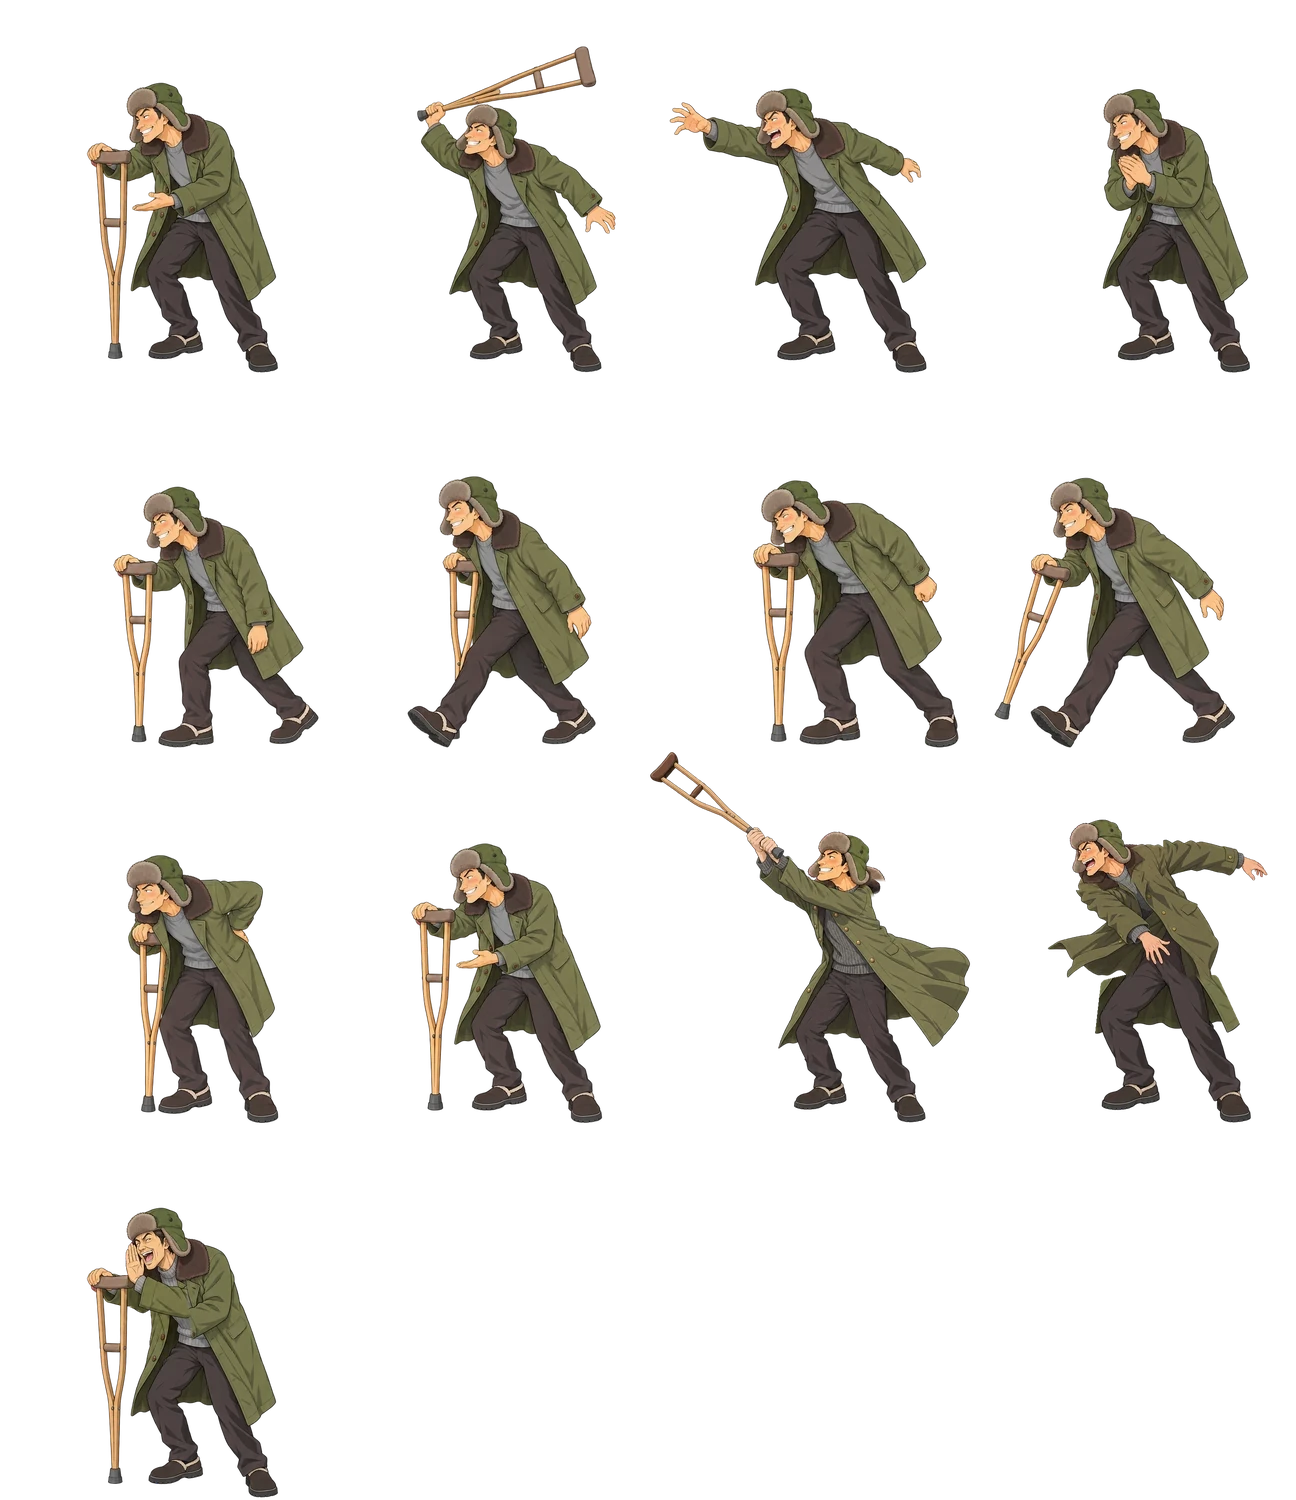
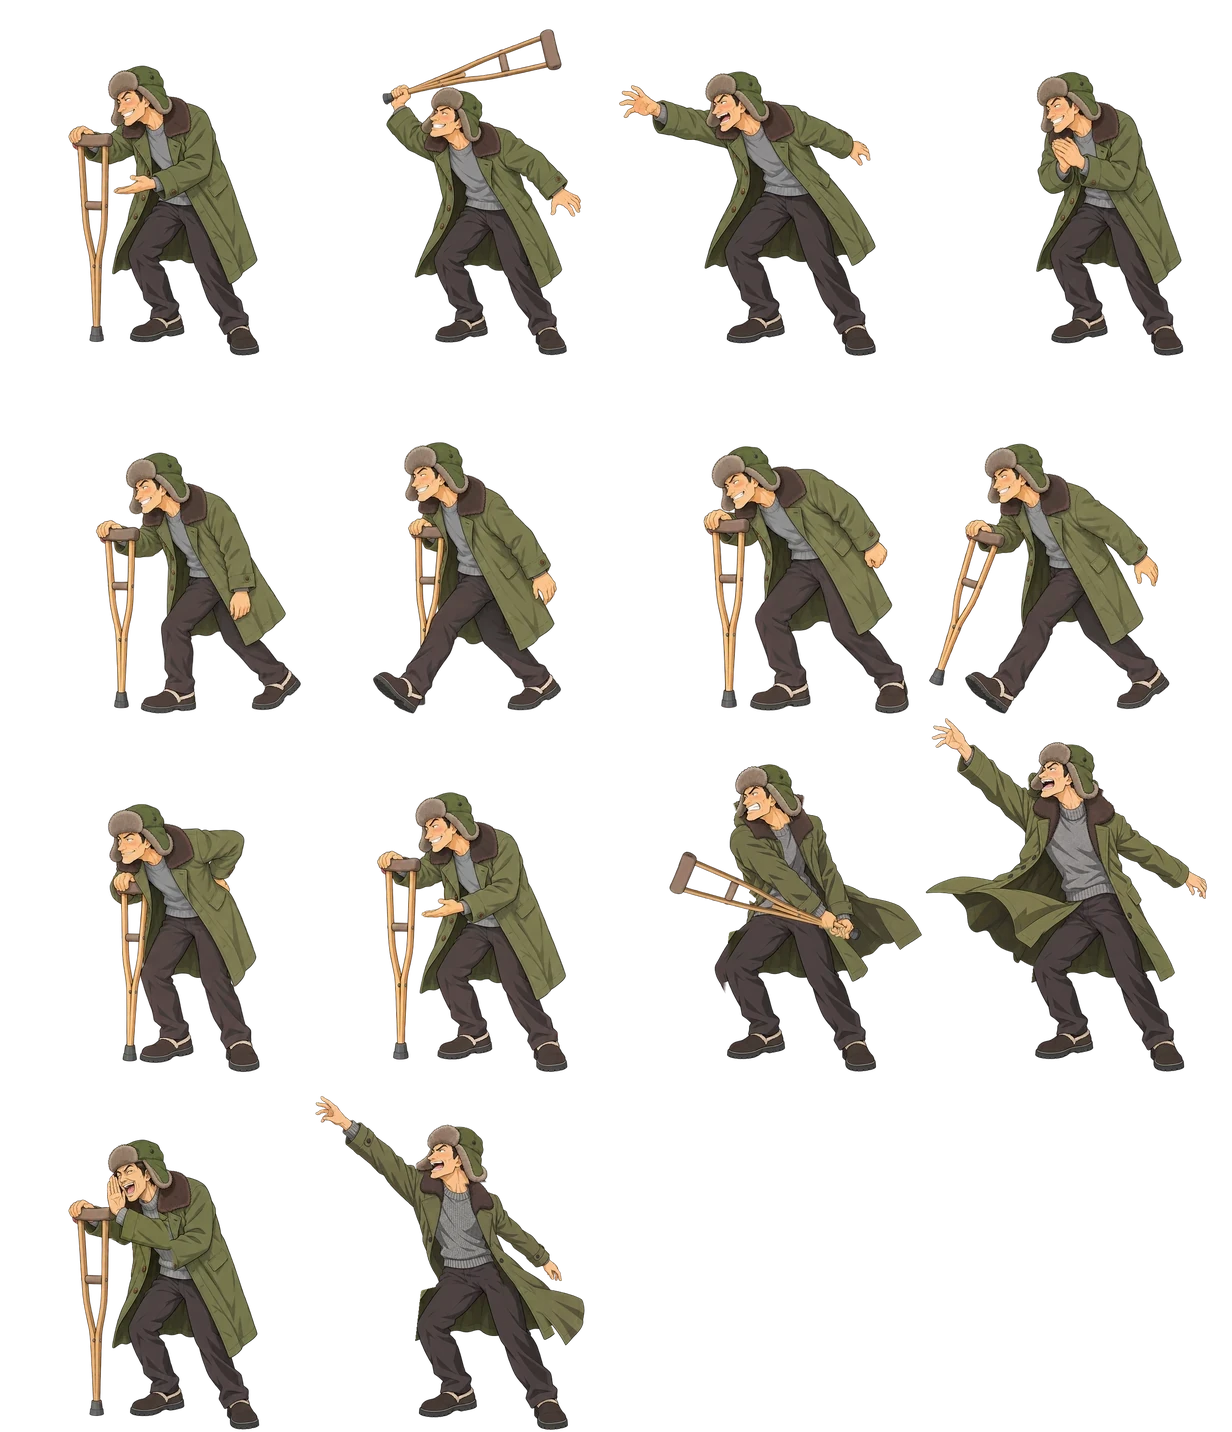
feat: 精美1 哥们第 2 批——B22 气功波出手帧双掌指向左上 20°（肩→掌 158.4°，所需 160°）、B29 卖拐出手帧按 143° 重画（swing→release 140°、肩→手 141.1°），atk.dir 写进角色数据；combo_scan buddy 0 / 0 / 0

diff --git a/chashouji/web/trio_buddy.js b/chashouji/web/trio_buddy.js
@@ -194,20 +194,19 @@ const TRIO_BUDDY = {
     },
     B22: {      // 悟空：从右下角低身冲刺、一滑落成半跪，双手在腰侧蓄气 → 往前推出水版气功波
       face: -1,
-      sheet: { src: 'assets/trio/B22_goku.webp', cell: [271, 351], cols: 4, names: ['idle', 'wind', 'throw', 'follow', 'dash', 'skid', 'guard', 'idle0', 'swing', 'thru', 'idle2'] },
+      sheet: { src: 'assets/trio/B22_goku.webp', cell: [267, 351], cols: 4, names: ['idle', 'wind', 'throw', 'follow', 'dash', 'skid', 'guard', 'idle0', 'swing', 'release', 'thru', 'idle2'] },
       /* 锚点 = 前脚和跪地膝之间的地面；在场帧最低点屏幕 y 1332.9。剪影面积 2.90 万 */
-      anchor: [138.1, 314], at: [835, 1310, 1], pivot: [138, 313.8],
+      anchor: [143.7, 314], at: [835, 1310, 1], pivot: [143.6, 313.8],
       leanK: 0,   // 半跪两点着地：整体前后倾会把前脚翘起来
       depth: 1.3, recipe: 'water',
       enter: { kind: 'dash', seq: [['dash', 0.45], ['skid', 0.15, 'land'], ['guard', 9]], sq: 0.1 },
       exit: { frame: 'dash' },
       idle: { frame: 'idle', breathe: [0.02, 0.9, 0], alt: { frame: 'idle2', every: [0.5, 1.2], hold: [0.6, 1.0] } },
-      flex: { idle: [[212, 202.8, 245, 246.8, 'l', 5, 1.2]], follow: [[200, 172.8, 260, 264.8, 'l', 5, 1.2]] },   // 腰带的两条尾巴：结那头钉住
+      flex: { idle: [[217.6, 202.8, 250.6, 246.8, 'l', 5, 1.2]], follow: [[205.6, 172.8, 265.6, 264.8, 'l', 5, 1.2]] },   // 腰带的两条尾巴：结那头钉住
       /* 出手帧（throw）的时长 = beam.fire：波轰满 0.6 秒才收 */
-      /* 精美1（P6 / P7，美术补帧，蒙版局部重绘）：wind 腰侧蓄气 → swing 双掌捧气推到胸前、身子前倾头发后吹（气球画在两掌间）→ throw 推出光束 → thru 手肘微弯后坐、头发往前甩 → follow；idle2 = 拇指擦鼻子。图集往上扩 22.8。idle0 = 旧的重画 idle（不用），idle2 等引擎 P7 随机切 */
-      /* swing 暂不进 seq：这张屏幕最右出画（combo_scan），重画中 */
-      atk: { kind: 'beam', seq: [['wind', 0.38], ['throw', 0.6, 'fire'], ['thru', 0.12], ['follow', 0.25]],
-             hold: { wind: [215, 182.8], throw: [38, 107.8], swing: [58, 132] }, gap: [0.45, 0.8], stretch: 0.03,
+      /* 精美1（P6 / P7，美术补帧，蒙版局部重绘）：第二轮（物理一致性，审查第 4 节：光是直线，双掌要指向 160°）：wind 腰侧蓄气 → swing 双掌合到胸前偏下（气球画在两掌间）→ release 双臂往左上 20° 推直、光束从两掌中间直出（肩→掌 158.4°）→ thru 手肘微弯后坐 → follow；idle2 = 拇指擦鼻子。图集往上扩 22.8。idle0 = 旧的重画 idle（不用），idle2 等引擎 P7 随机切 */
+      atk: { kind: 'beam', seq: [['wind', 0.32], ['swing', 0.08], ['release', 0.6, 'fire'], ['thru', 0.12], ['follow', 0.25]], dir: { release: 21.6 },
+             hold: { wind: [220.6, 182.8], throw: [43.6, 107.8], swing: [94, 169], release: [26, 66] }, gap: [0.45, 0.8], stretch: 0.03,
              beam: { fire: 0.6, drip: 0.1, ball: 26, glow: [120, 210, 255], edge: [30, 90, 200],
                      layers: [[34, [30, 90, 200], 0.35], [22, [90, 180, 255], 0.8], [11, [210, 240, 255], 0.95], [4, [255, 255, 255], 1]] } },
     },
@@ -548,20 +547,20 @@ const TRIO_BUDDY = {
 
     B29: {      // 东北卖拐大叔：军大衣雷锋帽，拄着拐一瘸一拐挪进来，举着拐吆喝推销；抡起拐杖甩过去，3D 拐杖翻着飞
       face: -1,
-      sheet: { src: 'assets/trio/B29_crutch.webp', cell: [324, 375], cols: 4, names: ['idle', 'wind', 'throw', 'follow', 'walk1', 'walk2', 'walk3', 'walk4', 'stop', 'idle0', 'swing', 'thru', 'idle2'] },
+      sheet: { src: 'assets/trio/B29_crutch.webp', cell: [308, 358], cols: 4, names: ['idle', 'wind', 'throw', 'follow', 'walk1', 'walk2', 'walk3', 'walk4', 'stop', 'idle0', 'swing', 'thru', 'idle2', 'release'] },
       /* 地板前排（站着弓腰），锚点 = 两脚之间的地面。剪影面积 2.85 万（樱木 +8%，含帧里的拐）。at.y 1326：各帧剪影最低一行屏幕 y 最大 1333.2（1328 时 1335.2，超 1.2）。
          拐杖在 idle / wind / 走路帧里画着（拄着、推销、抡起来），throw 帧手空了、飞出去的是 3D 拐杖 */
-      anchor: [211.8, 365], at: [830, 1326, 1], pivot: [211.5, 365.2], leanK: 0,
+      anchor: [193.3, 347.9], at: [830, 1326, 1], pivot: [193, 348.1], leanK: 0,
       depth: 1.3, recipe: 'thud',
       /* 瘸：步长恒定（引擎一帧一步），瘸靠 walk3 伤腿着地时身子下沉、压着拐（审查第三轮第 4 条）；bob 跟帧。
          拄拐的过渡帧也是一前一后两脚着地（后脚撑着），钉脚按手写的换帧链对齐（walkfix.py，平移 +18 / -12 / -9 / -48）；dist = 6 步 × 59.25 */
       enter: { kind: 'walk', fps: 5, bob: 12, stride: 118, dist: 354, seq: [[['walk1', 'walk2', 'walk3', 'walk4'], 9]] },
       exit: { frame: ['walk1', 'walk2', 'walk3', 'walk4'], fps: 6, flip: true, T: 0.8 },
       idle: { frame: 'idle', breathe: [0.02, 0.8, 0], alt: { frame: 'idle2', every: [0.5, 1.2], hold: [0.6, 1.0] } },
-      flex: { idle: [[119.5, 77.2, 199.5, 112.2, 'b', 3, 0.8]] },   // 雷锋帽顶的毛：底边钉住，帽顶颤
-      /* 精美1（P6 / P7，美术补帧，蒙版局部重绘）：wind 拐在头后 → swing 双手握拐抡到头顶前上方（拐画在帧里）→ throw 离手（3D 拐从 hold.throw 飞出）→ thru 空手甩到身前低处、大衣前甩 → follow；idle2 = 手拢嘴边吆喝。swing / thru 的头按老帧重画过（同一顶军绿帽、浅棕毛边）。图集扩 (19.5, 44.2)。idle0 = 旧的重画 idle（不用），idle2 等引擎 P7 随机切 */
+      flex: { idle: [[101, 60.1, 181, 95.1, 'b', 3, 0.8]] },   // 雷锋帽顶的毛：底边钉住，帽顶颤
+      /* 精美1（P6 / P7，美术补帧，蒙版局部重绘）：第二轮（物理一致性，审查第 4 节所需 143°）：wind 拐在头后 → swing 双手握拐收到右胯后（拐画在帧里，同一根）→ release 手臂往左上伸直、拐刚离手（这一拍离手，3D 拐从 hold.release 飞出；双拳中心 swing→release 140°、肩→手 141.1°）→ thru 空手继续往左上扬、大衣前甩 → follow；idle2 = 手拢嘴边吆喝。swing / thru 的头按老帧重画过（同一顶军绿帽、浅棕毛边）。图集扩 (19.5, 44.2)。idle0 = 旧的重画 idle（不用），idle2 等引擎 P7 随机切 */
       atk: { kind: 'throw', item: 'crutch', r: 86, atlas: { src: 'assets/trio/prop_crutch.webp', n: 36, cols: 6, cell: 190, scale: 1.07 },   // 3D 拐返工（引擎负责人 2026-10-01）：浅木双杆长拐，长边 163~183px ≈ 帧里那根
-             seq: [['wind', 0.28], ['swing', 0.07], ['throw', 0.1, 'fire'], ['thru', 0.12], ['follow', 0.33]], hold: { throw: [37.5, 119.2] },
+             seq: [['wind', 0.22], ['swing', 0.08], ['release', 0.12, 'fire'], ['follow', 0.36]], dir: { release: 40 }, hold: { throw: [19, 102.1], release: [23.6, 40.7] },   // thru（手再往上扬、身子前送）压到后排 B7 的腿（combo_scan 9.4% > 8%），暂不进 seq
              T: 0.5, arc: 0.2, spin: 6.3, stretch: 0.02, gap: [0.6, 1.0] },
     },
 

diff --git a/chashouji/v14/trio/buddy/B22_goku/p6dpaste.py b/chashouji/v14/trio/buddy/B22_goku/p6dpaste.py
@@ -1,0 +1,63 @@
+# P6 方向版：同 p6paste.py，读写 raw/p6d_*：python3 p6dpaste.py <name> <gen.png> [f] [s0 s1]
+import sys, numpy as np
+sys.path.insert(0,'/workspace/art/chashouji/v14/trio/tools'); sys.path.insert(0,'/workspace/art/chashouji/v14')
+from frames import gray, find, resize
+from crewart import cut
+from PIL import Image
+from scipy import ndimage
+R='/workspace/art/chashouji/v14/trio/buddy/B22_goku/raw/'
+name,gp=sys.argv[1:3]; f=float(sys.argv[3]) if len(sys.argv)>3 else 1.0; s0,s1=(float(sys.argv[4]),float(sys.argv[5])) if len(sys.argv)>5 else (0.5,1.0)
+rgb,al=cut(R+f'p6d_{name}_base.png','magenta',(40,150))
+base=Image.fromarray(np.dstack([rgb,al*255]).clip(0,255).astype(np.uint8),'RGBA')
+keep=np.array(Image.open(R+f'p6d_{name}_mask.png'))[...,3]>128          # 不透明 = 保留
+import os; PADR=int(os.environ.get('PADR','0'))      # 生成图的手伸出 1024 画布右边：画布往右加宽 PADR（加宽区按要重画处理）
+CW=1024+PADR
+if PADR:
+    rgb=np.pad(rgb,((0,0),(0,PADR),(0,0))); al=np.pad(al,((0,0),(0,PADR))); keep=np.pad(keep,((0,0),(0,PADR)))
+    base=Image.fromarray(np.dstack([rgb,al*255]).clip(0,255).astype(np.uint8),'RGBA')
+# 模板：蒙版外（腿）的身体包围盒，往里收 20 远离蒙版边
+lm=keep&(al>0.5); lm=ndimage.binary_erosion(keep,iterations=20)&(al>0.5)
+ys,xs=np.nonzero(lm); box=(xs.min()-4,ys.min(),xs.max()+5,ys.max()+5)
+tpl=gray(base.crop(box))
+g=Image.open(gp).convert('RGBA')
+if np.array(g)[...,3].min()>250:
+    gr,ga=cut(gp,'magenta',(40,150)); g=Image.fromarray(np.dstack([gr,ga*255]).clip(0,255).astype(np.uint8),'RGBA')
+q=0.25; tq=gray(resize(base.crop(box),q))
+best=None
+for s in np.arange(s0,s1,0.01):
+    r=find(gray(resize(g,s*q)),tq)
+    if r and (best is None or r[2]>best[0]): best=(r[2],s,r)
+sc0=best[1]; best=None
+for s in np.arange(sc0-0.012,sc0+0.013,0.003):
+    gi=resize(g,s); cy,cx=best_r=( None,None)
+    r=find(gray(gi),tpl)
+    if r and (best is None or r[2]>best[0]): best=(r[2],s,r)
+sc,s,r=best
+gx,gy=box[0]-r[1],box[1]-r[0]
+print(f'{name}: scale {s:.3f} score {sc:.3f} offset {gx:.1f},{gy:.1f}')
+G=np.array(g.transform((CW,1024),Image.AFFINE,(1/s,0,-gx/s,0,1/s,-gy/s),Image.BICUBIC)).astype(np.float32)
+if f!=1.0:   # 上半身绕胯点缩 f（腰线以下不影响：蒙版外本来就用原图）
+    ky=int(os.environ.get('KY','575'))               # 蒙版透明区最低一行 = 腰线
+    row=np.nonzero(al[ky+10]>0.5)[0]; xh=float(os.environ.get('XH',(row.min()+row.max())/2)); yh=ky+10
+    Gi=Image.fromarray(G.clip(0,255).astype(np.uint8),'RGBA')
+    Gs=np.array(Gi.transform((CW,1024),Image.AFFINE,(1/f,0,xh-xh/f,0,1/f,yh-yh/f),Image.BICUBIC)).astype(np.float32)
+    # B22：蒙版透明区一直延到腰带结下面（745），只缩腰线以上，腰线上下 BAND 渐变，腰带结 / 短裤保持生成图原大小
+    BAND=40; Y=np.arange(1024)[:,None,None]; wy=np.clip((yh+BAND/2-Y)/BAND,0,1)
+    pmx=lambda X:np.dstack([X[...,:3]*X[...,3:]/255,X[...,3:]])
+    o2=pmx(Gs)*wy+pmx(G)*(1-wy)
+    G=np.dstack([o2[...,:3]*255/np.maximum(o2[...,3:],1e-3),o2[...,3:]]).clip(0,255)
+    print('shrink',f,'pivot',xh,yh)
+B=np.array(base).astype(np.float32)
+# 蒙版透明区权重，边上 8px 渐变（只往透明区里渐变，蒙版外全是原像素）
+d=ndimage.distance_transform_edt(~keep)
+w=np.clip(d/8,0,1)
+ga,ba=G[...,3]/255,B[...,3]/255
+w=w*np.maximum(ga,1-ba)            # 渐变带里生成图是空的地方留原图
+w=np.where(d>8,1,w)                # 渐变带外完全用生成图
+pm=lambda X:np.dstack([X[...,:3]*X[...,3:]/255,X[...,3:]])
+o=pm(G)*w[...,None]+pm(B)*(1-w[...,None])
+out=np.dstack([o[...,:3]*255/np.maximum(o[...,3:],1e-3),o[...,3:]]).clip(0,255).astype(np.uint8)
+Image.fromarray(out,'RGBA').save(R+f'p6d_{name}.png')
+# 预览
+pv=Image.new('RGBA',(CW,1024),(200,200,200,255)); pv.alpha_composite(Image.fromarray(out,'RGBA'))
+pv.convert('RGB').resize((CW//2,512)).save(f'/tmp/b22d/out_{name}.png')

diff --git a/chashouji/v14/trio/buddy/B22_goku/p6dcmp.py b/chashouji/v14/trio/buddy/B22_goku/p6dcmp.py
@@ -1,0 +1,31 @@
+# P6 方向版对比图（B22 气功波）：idle / wind / swing / release / thru / follow；release 标肩 S、掌心中点 R（出口点）与 S→R 角，swing 标两掌中心 P，thru 标肩→掌角
+import json, math
+from PIL import Image, ImageDraw
+J=json.load(open('/workspace/art/chashouji/web/assets/trio/B22_goku.json')); cw,ch=J['cell']
+A=Image.open('/workspace/art/chashouji/web/assets/trio/B22_goku.webp').convert('RGBA')
+P=(94,169); S=(150,115); R=(26,66); TS=(187.5,120); TR=(70,75)      # 格内输出像素（手量，anchor [143.7, 314]）
+ang=lambda a,b: math.degrees(math.atan2(-(b[1]-a[1]),b[0]-a[0]))
+names=['idle','wind','swing','release','thru','follow']
+W=Image.new('RGB',(cw*len(names),ch+44),(225,225,225)); d=ImageDraw.Draw(W)
+for k,n in enumerate(names):
+    i=J['frames'].index(n); c=A.crop((i%4*cw,i//4*ch,i%4*cw+cw,i//4*ch+ch))
+    bg=Image.new('RGBA',c.size,(225,225,225,255)); bg.alpha_composite(c); W.paste(bg.convert('RGB'),(k*cw,44))
+    d.text((k*cw+4,4),n,fill=(0,0,0))
+    o=lambda p:(k*cw+p[0],44+p[1])
+    def dot(p,col,t):
+        x,y=o(p); d.ellipse([x-4,y-4,x+4,y+4],outline=col,width=2); d.text((x+6,y-12),t,fill=col)
+    def ray(a,b,col,ext=60):        # 肩→掌连线，并沿方向往前延长（光束走向）
+        d.line([o(a),o(b)],fill=col,width=2)
+        th=math.atan2(b[1]-a[1],b[0]-a[0]); e=(b[0]+ext*math.cos(th),b[1]+ext*math.sin(th))
+        for t in range(0,ext,8): d.line([(o(b)[0]+t*math.cos(th),o(b)[1]+t*math.sin(th)),(o(b)[0]+(t+4)*math.cos(th),o(b)[1]+(t+4)*math.sin(th))],fill=col,width=1)
+    if n=='swing':
+        dot(P,(255,0,0),'P'); d.text((k*cw+4,18),f'palms P={P}',fill=(200,0,0))
+    if n=='release':
+        ray(S,R,(0,90,255)); dot(S,(0,90,255),'S'); dot(R,(255,0,0),'R')
+        d.text((k*cw+4,18),f'S->R {ang(S,R):.1f} deg (need 160+-10)',fill=(0,60,200))
+        d.text((k*cw+4,30),f'exit R={R}',fill=(200,0,0))
+    if n=='thru':
+        ray(TS,TR,(0,140,0)); dot(TS,(0,140,0),'S'); dot(TR,(0,140,0),'T')
+        d.text((k*cw+4,18),f'S->T {ang(TS,TR):.1f} deg',fill=(0,120,0))
+W.save('/workspace/art/chashouji/v14/trio/preview/B22_goku_p6d.png')
+print('release',ang(S,R),'thru',ang(TS,TR),'P->R',ang(P,R),W.size)

diff --git a/chashouji/v14/trio/buddy/B22_goku/p6dprep.py b/chashouji/v14/trio/buddy/B22_goku/p6dprep.py
@@ -1,0 +1,14 @@
+# P6 方向版（B22）：底图 = throw 格（上一轮 p6_swing_base.png，去掉右下角邻格靴尖碎块）；蒙版 = 腰线以上 + 腰带结 + 带尾
+import numpy as np
+from PIL import Image, ImageDraw
+from scipy import ndimage
+R='/workspace/art/chashouji/v14/trio/buddy/B22_goku/raw/'
+b=np.array(Image.open(R+'p6_swing_base.png').convert('RGB'))
+d=np.abs(b.astype(int)-[255,0,255]).sum(2)>90
+lab,k=ndimage.label(d); area=ndimage.sum(d,lab,range(1,k+1)); main=np.argmax(area)+1
+b[(lab!=main)&d]=[255,0,255]                     # 碎块铺回幕布
+for n in ['swing','release','thru']: Image.fromarray(b).save(R+f'p6d_{n}_base.png')
+m=Image.new('L',(1024,1024),255); dr=ImageDraw.Draw(m)
+dr.rectangle([0,0,1023,585],fill=0); dr.rectangle([470,585,1023,745],fill=0)   # 腰带结和垂下的带尾一起重画（只重画腰线以上会出两条腰带）
+out=Image.new('RGBA',(1024,1024),(0,0,0,255)); out.putalpha(m)
+for n in ['swing','release','thru']: out.save(R+f'p6d_{n}_mask.png')

diff --git a/chashouji/docs/哥们出手交接表.md b/chashouji/docs/哥们出手交接表.md
@@ -23,6 +23,8 @@
 | B26 电竞宅男 | 投掷（线连手） | 139° | swing → **release** | (238.8, 174.3) | (23.2, 42.2) | **148.5°**（差 9.5°） | release 31.5 | 138.0° | (194.3, 293.0) | 已上线；鼠标线跟随帧 thru 手位 (34, 27.2) |
 | B28 西游胖和尚 | 投掷（双手） | 138° | swing → **release** | (267, 177) | (109, 51) | **141.4°**（差 3.4°） | release 38.6 | 137.0° | (186.9, 303.7) | 已上线 |
 | B30 杀马特 | 投掷 | 140° | swing → **release** | (344, 256) | (32, 34) | **144.6°**（差 4.6°） | release 35.4 | 146.1° | (217.2, 360.9)；cfg 里 y 362.9（提 2 px 防地板出画） | 已上线；thru 不进 seq（手往回缩，待重生） |
+| B29 东北卖拐大叔 | 投掷（拐杖画在 swing 帧里） | 143° | swing → **release** | (222.8, 208.0)（双拳中心） | (23.6, 40.7) | **140.0°**（差 3.0°） | release 40 | 141.1° | (193.3, 347.9) | 已上线；thru 不进 seq（压后排 B7 腿 9.4%） |
+| B22 刺猬头武道家 | **光束**（直线） | 双掌 160° | swing → **release**（光束 0.6 秒） | (94, 169)（两掌中心） | (26, 66)（两掌中间，光束出口） | — | release 21.6 | **158.4°**（差 1.6°） | (143.7, 314) | 已上线 |
 
 ## 还在做 / 先按原配置的
 
@@ -33,7 +35,5 @@
 | B7 卷发大少 | 需补帧 176°（平甩）；现仍按第一轮在 swing 离手 | 重画 swing / release |
 | B9 外卖小哥 | 引擎可解（−12.3°）；swing / thru 压到上方 B19 的脚，暂按原配置在 wind 离手 | 重画 swing（手不高过 B19 脚下） |
 | B10 麻将大叔 | 需补帧 162°；swing 右沿出画，暂不进 seq | 重画 swing / release |
-| B22 刺猬头武道家 | 光束，需双掌指向 160°（仰角 20°）；swing 右沿出画，暂不进 seq | 重画 release（双掌前上推）+ swing |
 | B23 三刀剑客 | 斩痕，引擎可解（throw 60°）；swing 刀右沿出画，暂不进 seq | 重画 swing |
-| B29 卖拐大叔 | 需补帧 143° | 重画 swing / release / thru |
 | 上方 B11 B12 B13~B20 | 未开始（本轮先做地面 + 地板） | B12 −131°、B14 −141°、B15 −131°、B16 −125°、B19 −119° 出手帧；其余补 P6 / P7 |

diff --git a/chashouji/v14/trio/buddy/B29_crutch/prompts.md b/chashouji/v14/trio/buddy/B29_crutch/prompts.md
@@ -7,3 +7,7 @@
 - P6/P7（2026-10-01）：raw/p6_swing / p6_thru / p6_idle2（蒙版区贴回底图 + scale_as wind / throw / idle）；条 b 末格改名 idle0。
   swing 合成取膝下原图（y≥870）、头单独放大 1.12；thru 上身被画大 ~1.47，绕胯 (590,655) 缩 0.68。重 build 后 walkfix：stride 118.0，平移 +17 / -12 / -9 / -48。
 - 返修（同日）：swing / thru 只重画头（raw/p6_*_headbase.png 右上角贴同比例老帧头作参照、p6_*_headmask.png），贴回时蒙版向上 / 右外扩；thru 头绕颈 (465,478) 缩 0.88。旧版存 /tmp/b29/*_v1.png。
+- P6 方向版（2026-10-01，所需 143°）：raw/p6d_swing / p6d_release / p6d_thru 三张都以 throw 格为底（scale_as throw），蒙版=旧 thru 多边形（腿外全重画），底图右上贴老 throw 头作参照、swing 另贴 wind 拐杖作参照。
+  swing 生图的拐杖长 1.5 倍且和手不共线 → 擦掉画外那截、把 wind 原拐（413px）按 160.7° 贴到手里、手的皮肤像素压回最上层。
+  三帧头都被画小（帽子模板 0.78 / 0.78 / 0.85）→ 头部多边形绕颈点放大 1.28 / 1.28 / 1.18 后复测 1.01 / 0.99 / 0.99。中间文件 /tmp/b29d/。
+  P→R 140.0°、S→R 141.1°；build 后 cell 308x358、anchor [193.3, 347.9]；walkfix stride 118.0（平移 +18 / -12 / -8 / -47）。
